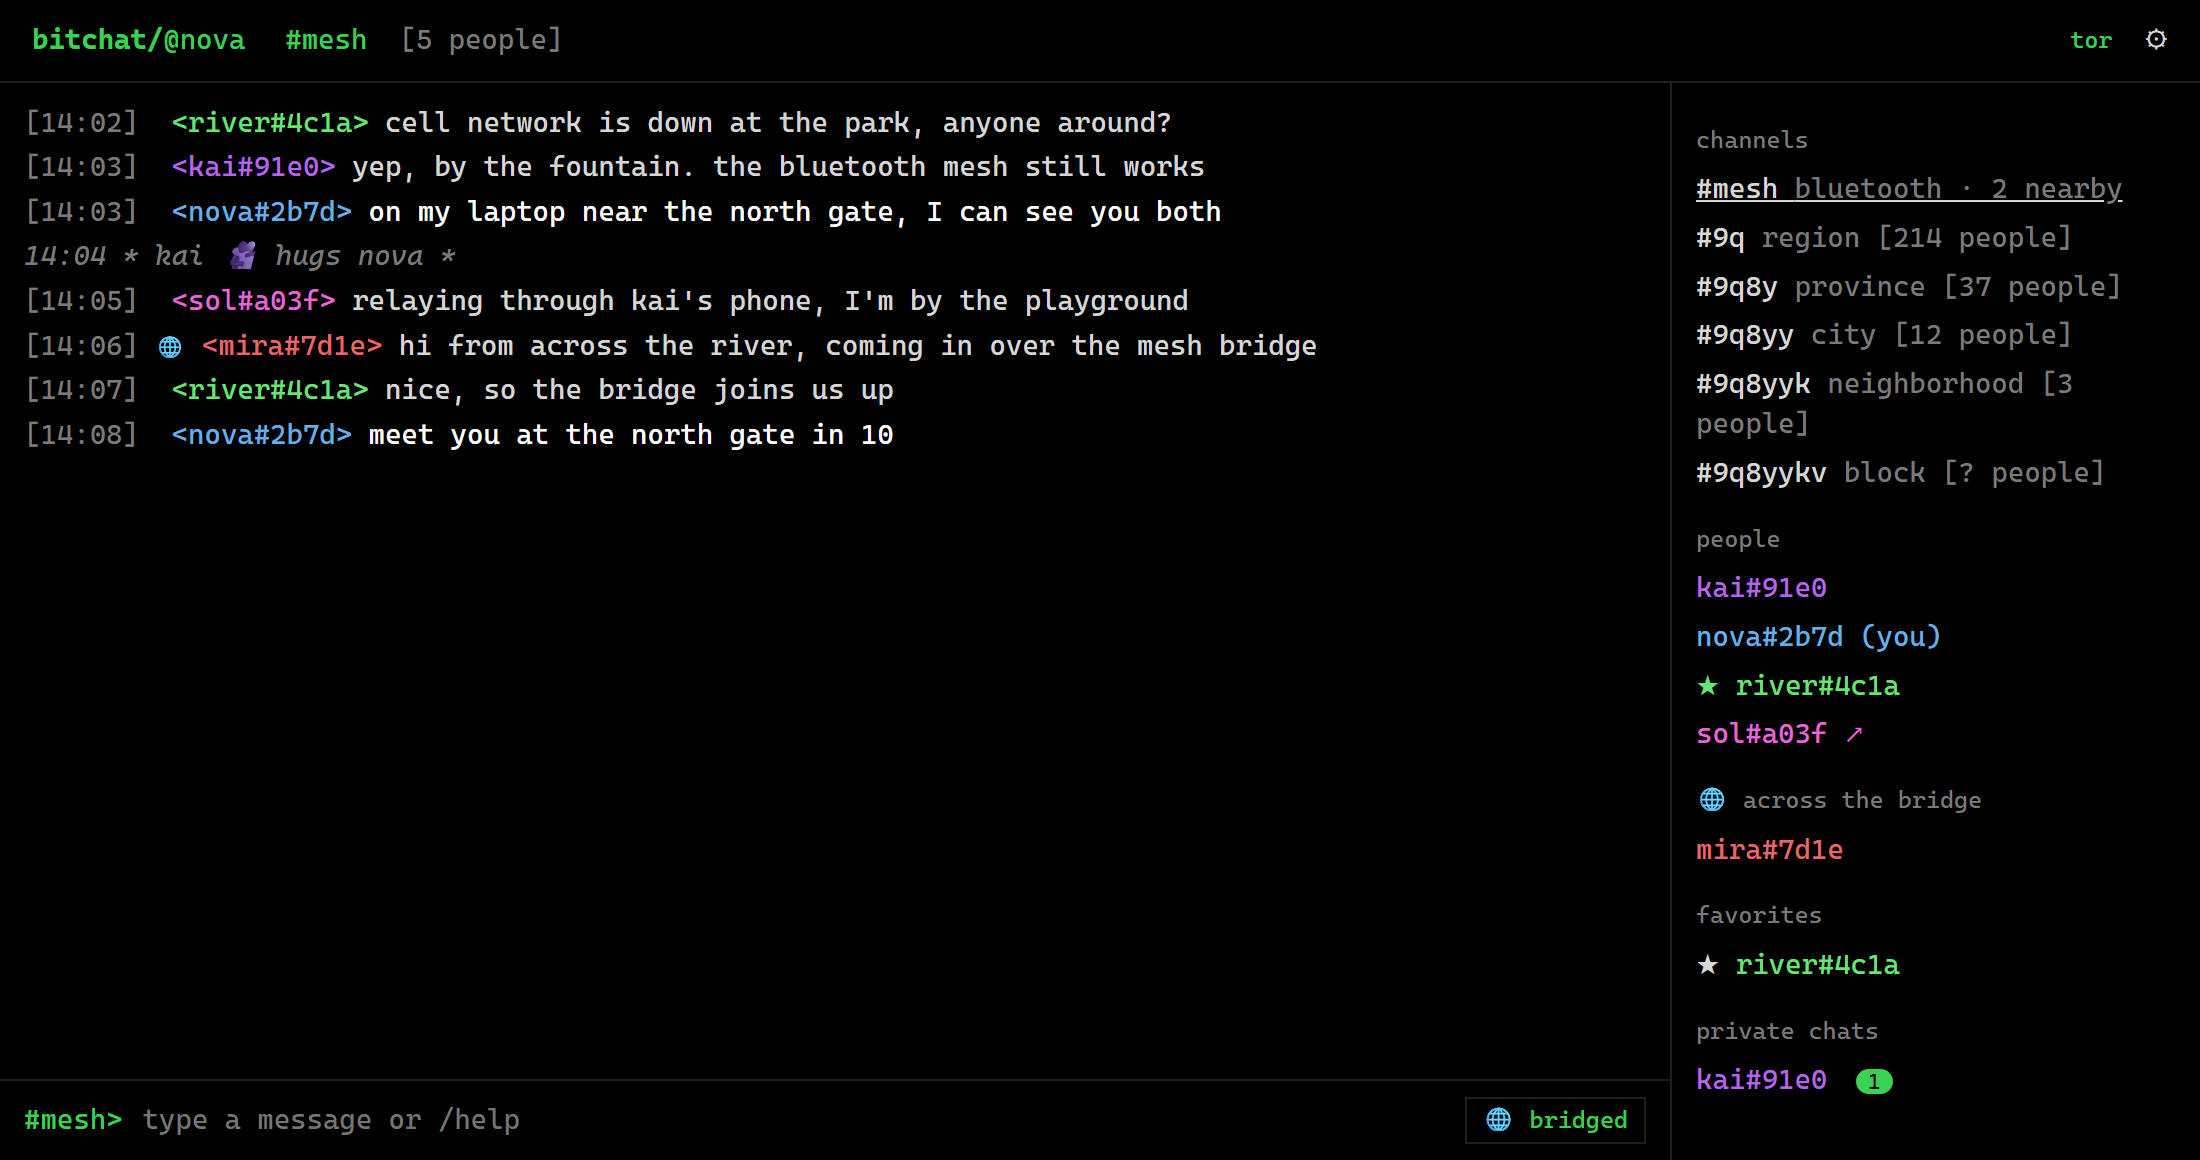
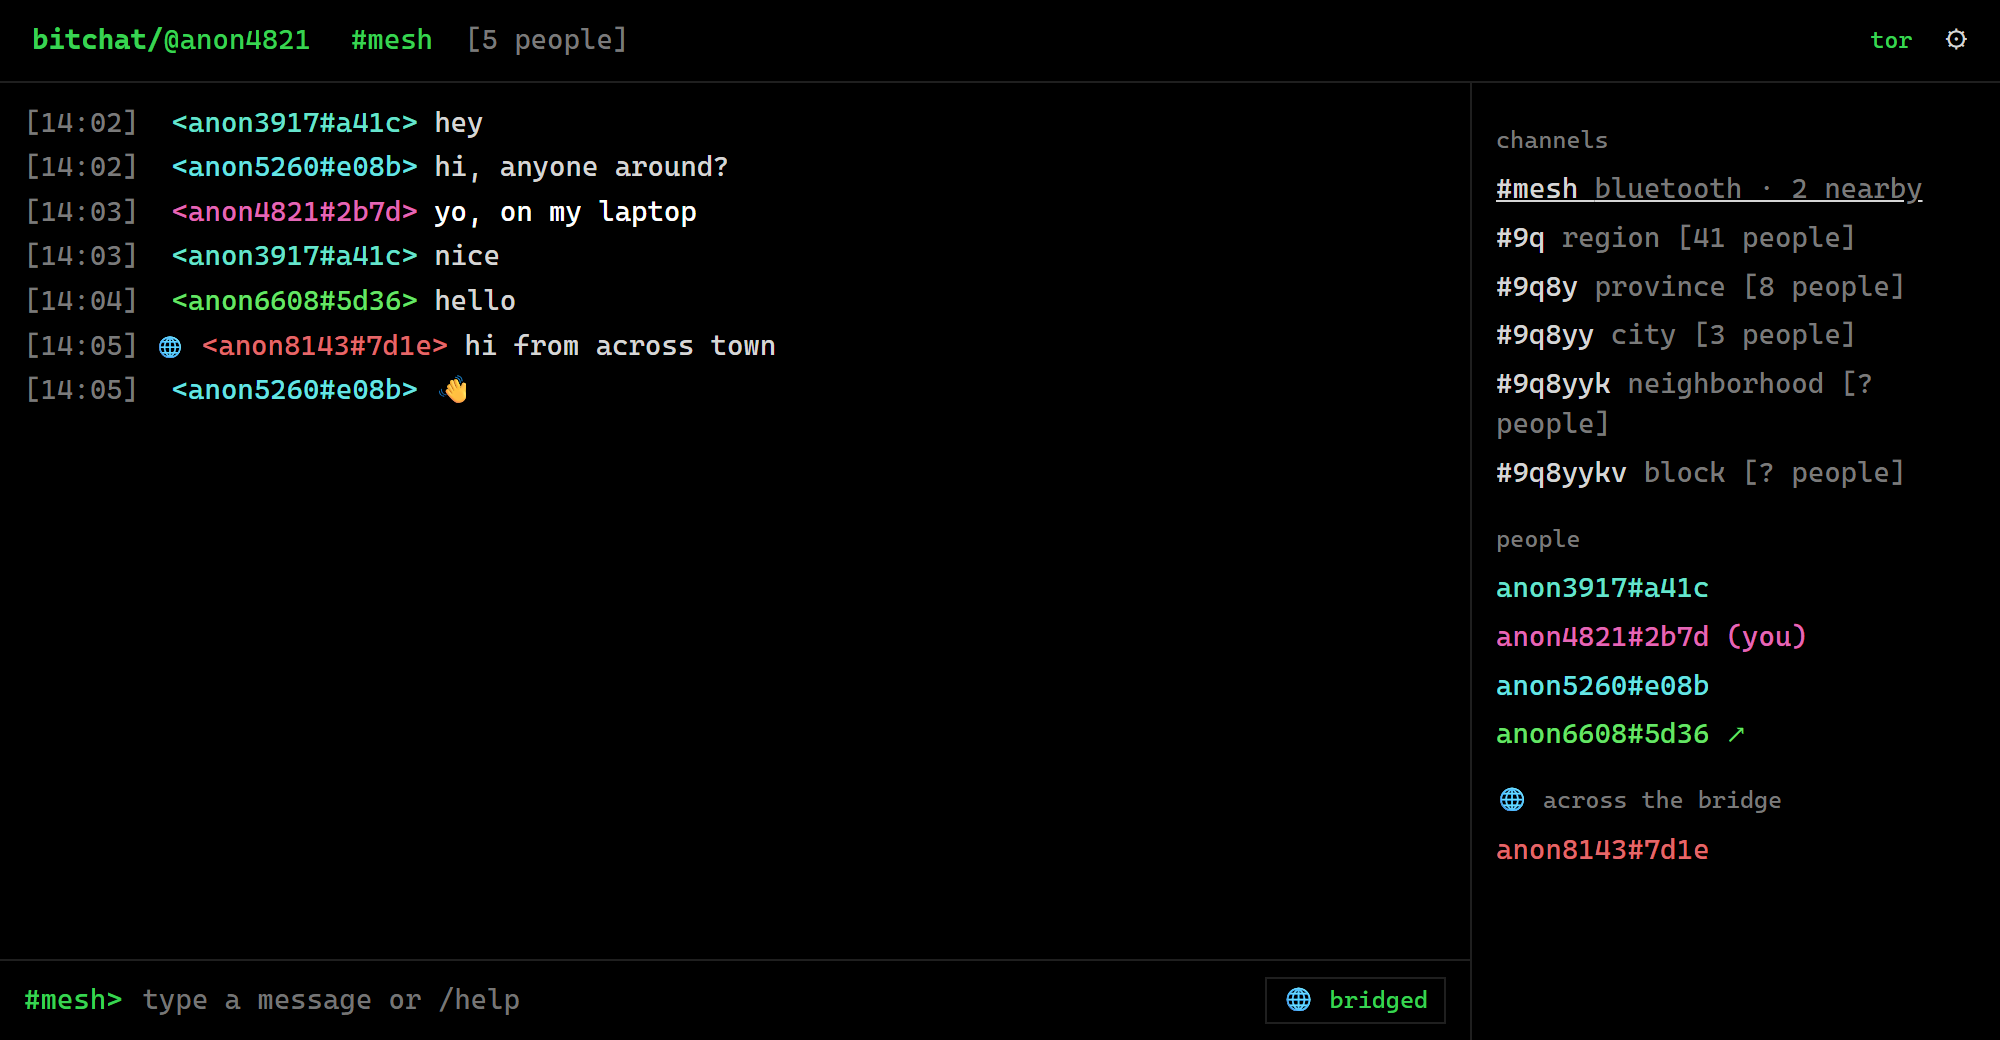
Simpler screenshot, clearer Bluetooth note

diff --git a/README.md b/README.md
@@ -36,10 +36,10 @@ Works with bitchat **1.8** for iPhone and Mac and **2.2** for Android. The packe
 
 ## Requirements
 
-- **Windows 10 or 11** with a Bluetooth adapter. For location channels near you, turn on location for desktop apps in Windows settings.
-- **Linux** with BlueZ and a Bluetooth adapter. Location comes from GeoClue if it's available.
+- **Windows 10 or 11.** For location channels near you, turn on location for desktop apps in Windows settings.
+- **Linux** with BlueZ. Location comes from GeoClue if it's available.
 
-Without Bluetooth, everything that goes over the internet still works.
+The Bluetooth built into most laptops is all you need for `#mesh`; a desktop without Bluetooth can use any USB dongle. Without Bluetooth, everything that goes over the internet still works.
 
 ## Build
 
